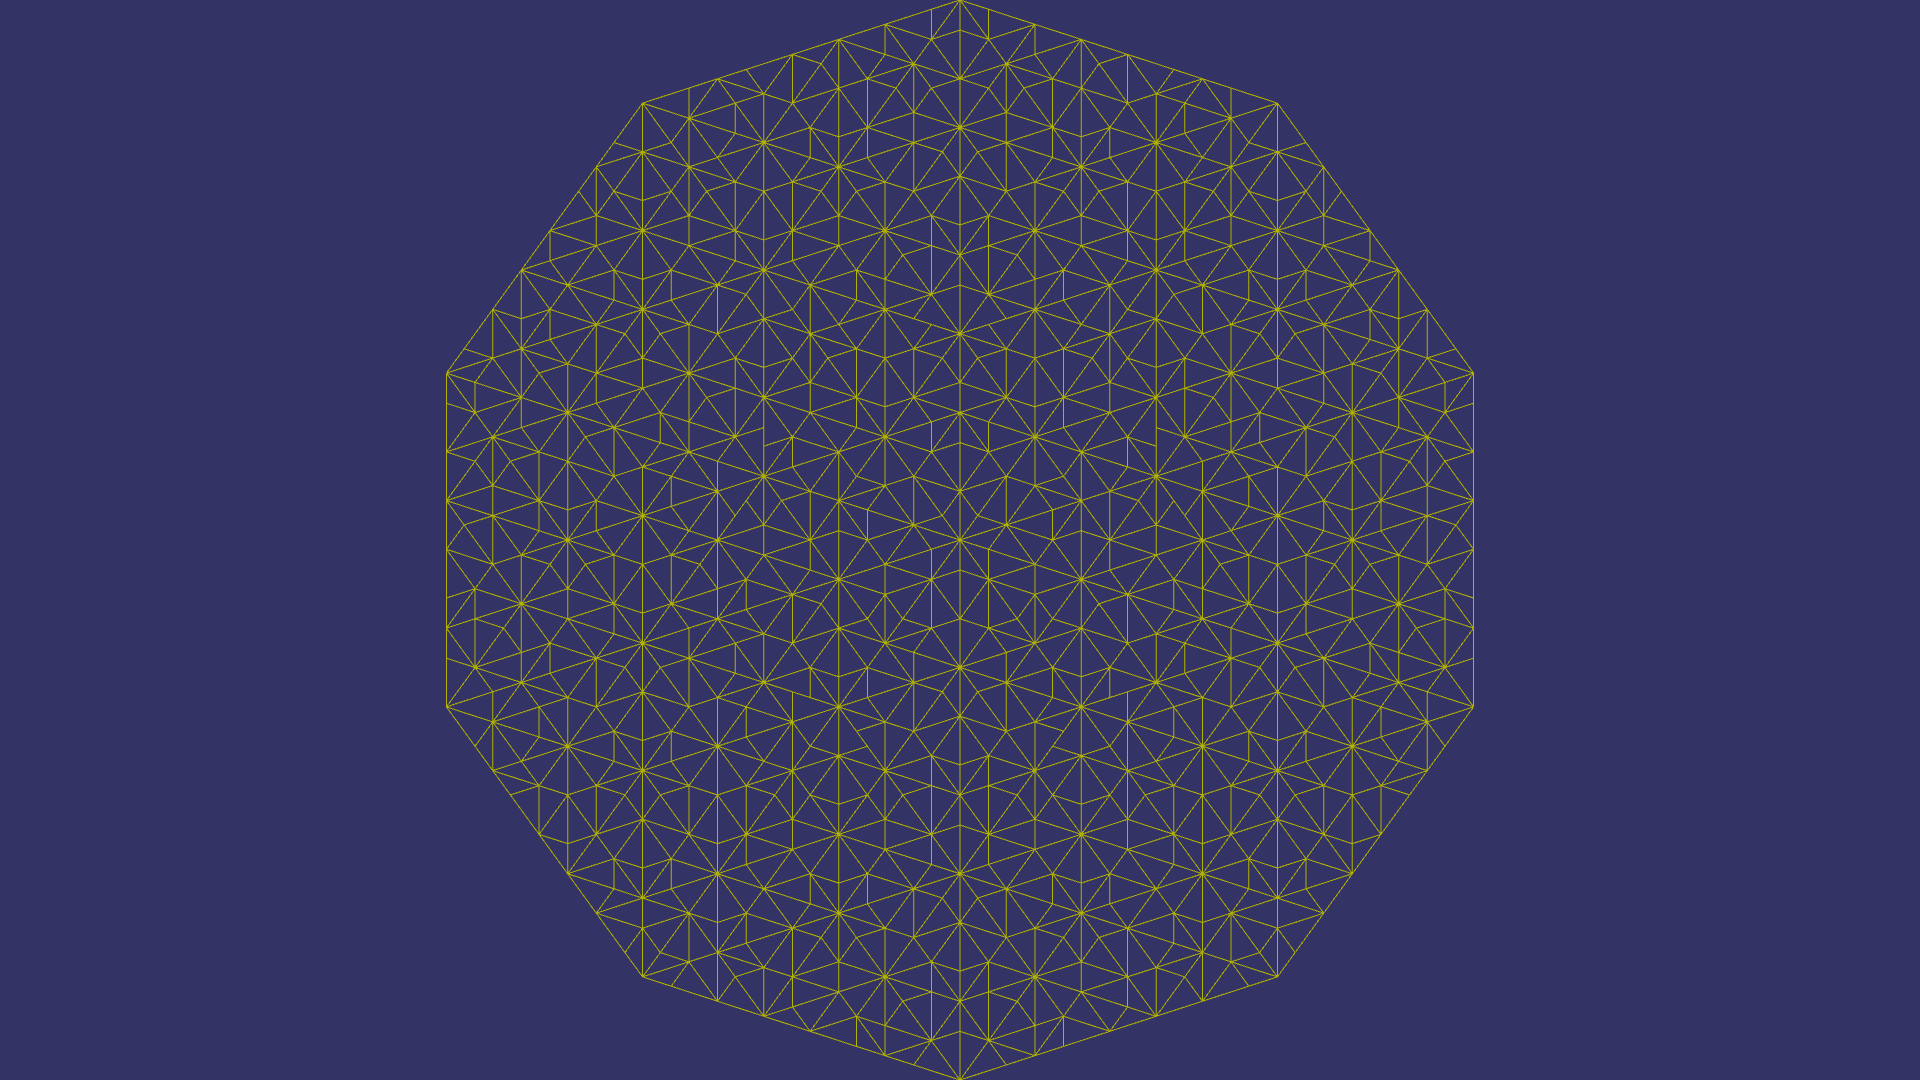
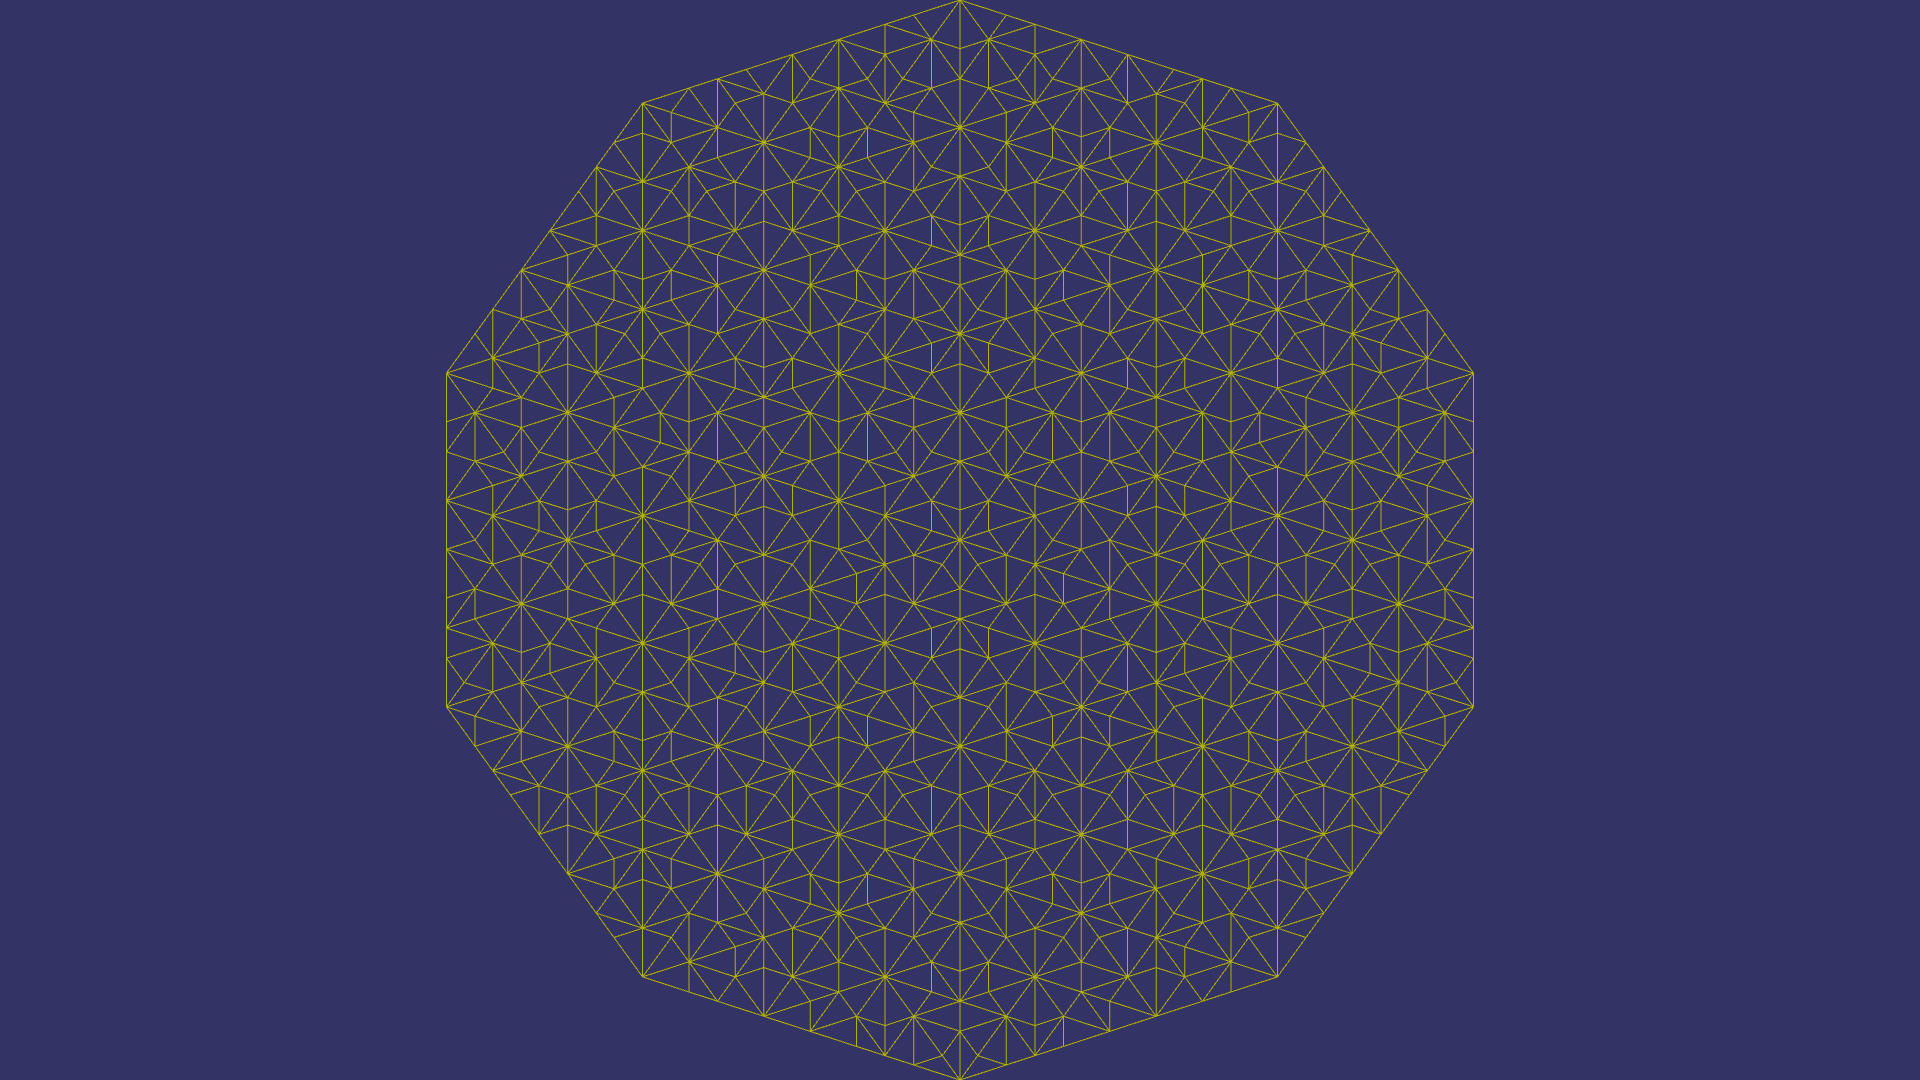
correcting misaligned triangles

diff --git a/penrose.cpp b/penrose.cpp
@@ -47,7 +47,7 @@ void split(triangle& parent, std::vector<glm::vec2>& points, std::vector<uint32_
 
             t = { i[1], i[2], s - 2,    //t123 1
                   i[1], s - 1, s - 2,   //t123 2
-                  i[0], s - 1, s - 2 }; //t124
+                  s - 2, s - 1, i[0] }; //t124
 
             triangle t123_1;
             t123_1.t_123 = true;
@@ -61,12 +61,11 @@ void split(triangle& parent, std::vector<glm::vec2>& points, std::vector<uint32_
 
             triangle t124;
             t124.t_123 = false;
-            t124.points = { parent.points[0], p2, p1 };
-            t124.indices = { i[0], s - 1, s - 2 };
+            t124.points = { p1, p2, parent.points[0] };
+            t124.indices = { s - 2, s - 1, i[0] };
 
             parent.subtriangles = { &t123_1, &t123_2, &t124 };
         }
-        //if (false) {
         else {
             glm::vec2 p3(((1.0f - phi) * p[2].x) + (phi * p[0].x), ((1.0f - phi) * p[2].y) + (phi * p[0].y));
 
